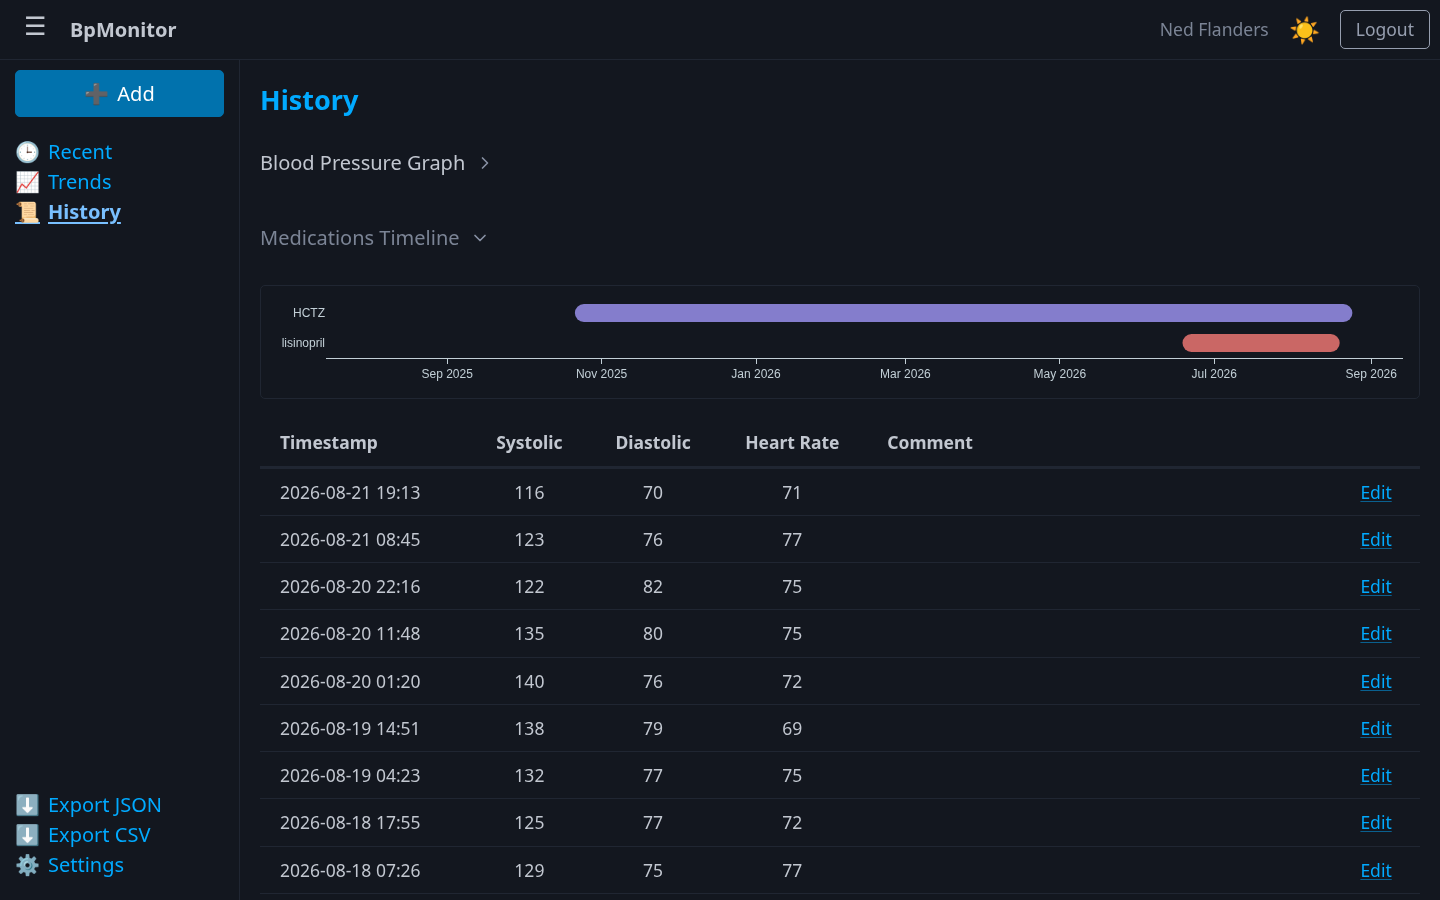
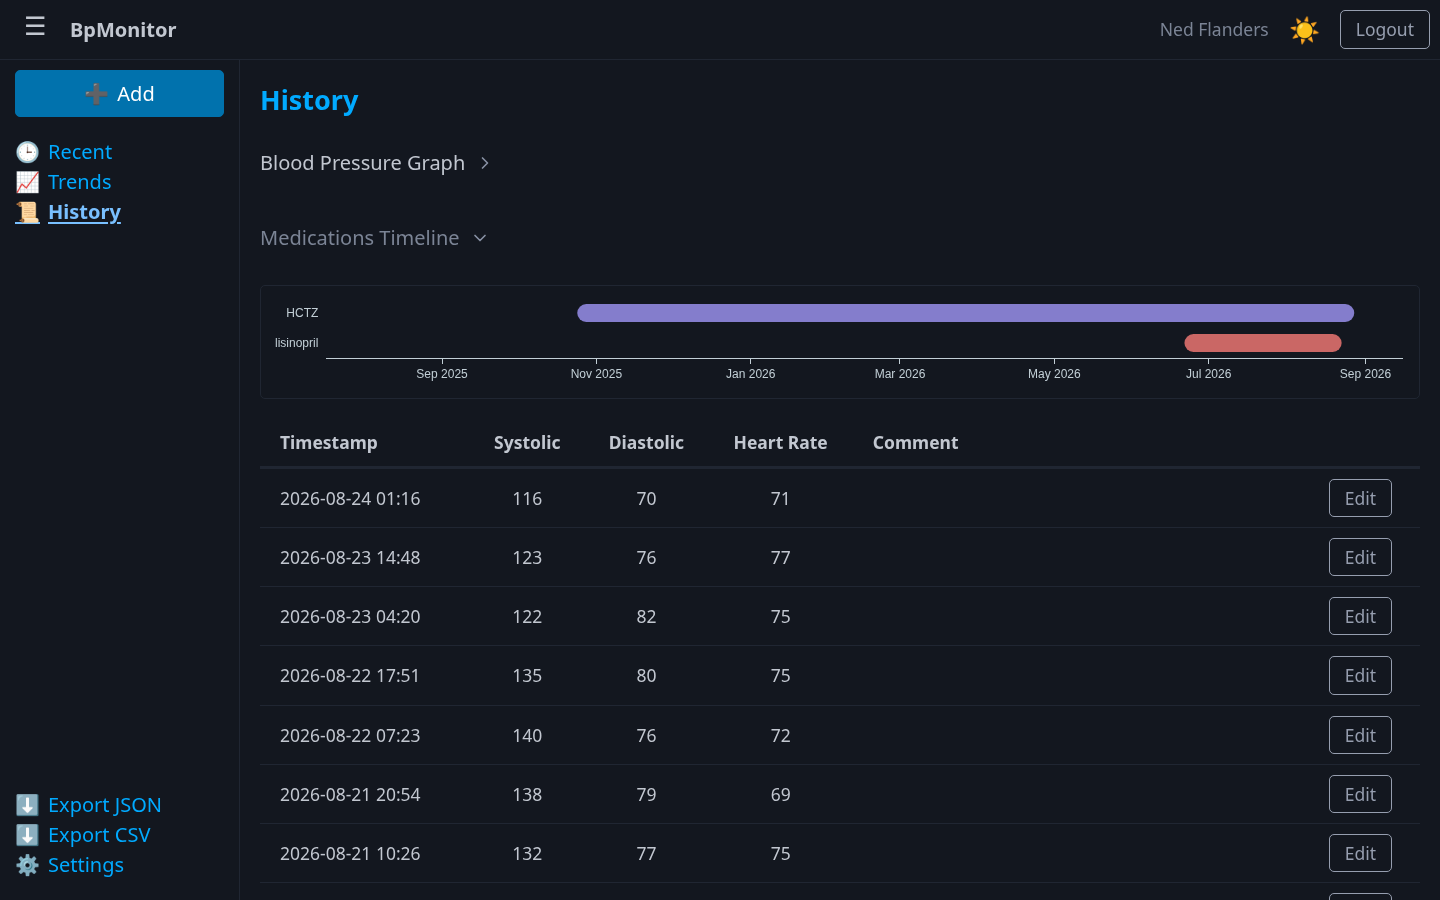
📝 docs: update changelog for v1.12.0

diff --git a/CHANGELOG.md b/CHANGELOG.md
@@ -7,6 +7,8 @@ and this project adheres to [Semantic Versioning](https://semver.org/spec/v2.0.0
 
 ## [Unreleased]
 
+## [1.12.0] - 2026-08-24
+
 ### Added
 
 - German translation: BpMonitor is now fully available in German — Settings > Language lets each family member switch between English and Deutsch. The choice is per-member and also remembered on the login page.
@@ -14,13 +16,6 @@ and this project adheres to [Semantic Versioning](https://semver.org/spec/v2.0.0
 ### Changed
 
 - History and Trends: the Edit action in the readings table now renders as a button, matching the style and sizing already used on Settings and Members.
-- Medications Timeline: added a small gap between the medication name labels and the y-axis so they no longer sit flush against it.
-
-### Fixed
-
-- Trends: Weekly and Yearly chart x-axis date labels now use the member's selected language instead of always showing English month abbreviations.
-- Trends: the Monthly view's month/year label for English-speaking members no longer depends on the server's OS/thread culture, so it can't accidentally render in German.
-- History: double-clicking the blood pressure chart to reset its zoom now resets the Medications Timeline chart below it too, instead of leaving it stuck at the old zoomed-in range.
 
 ## [1.11.0] - 2026-08-21
 
@@ -438,7 +433,8 @@ First stable release of the BpMonitor web app.
 
 - Initial GitHub release workflow and `install.sh` for automated deployment.
 
-[Unreleased]: https://github.com/draptik/BpMonitor/compare/v1.11.0...HEAD
+[Unreleased]: https://github.com/draptik/BpMonitor/compare/v1.12.0...HEAD
+[1.12.0]: https://github.com/draptik/BpMonitor/compare/v1.11.0...v1.12.0
 [1.11.0]: https://github.com/draptik/BpMonitor/compare/v1.10.1...v1.11.0
 [1.10.1]: https://github.com/draptik/BpMonitor/compare/v1.10.0...v1.10.1
 [1.10.0]: https://github.com/draptik/BpMonitor/compare/v1.9.0...v1.10.0
